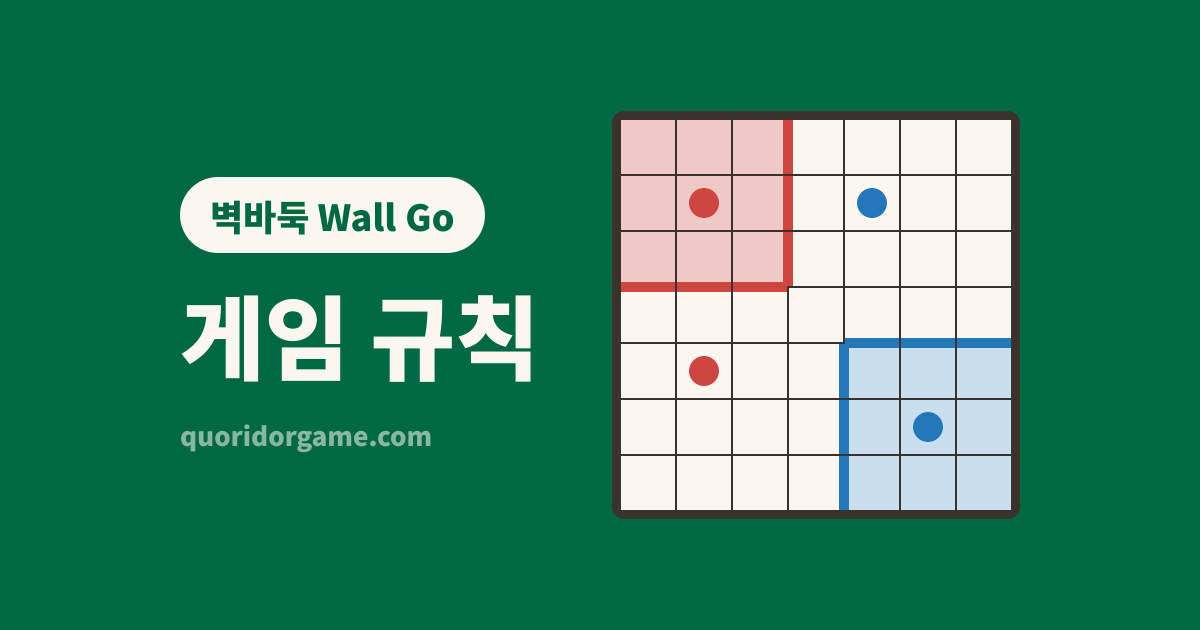
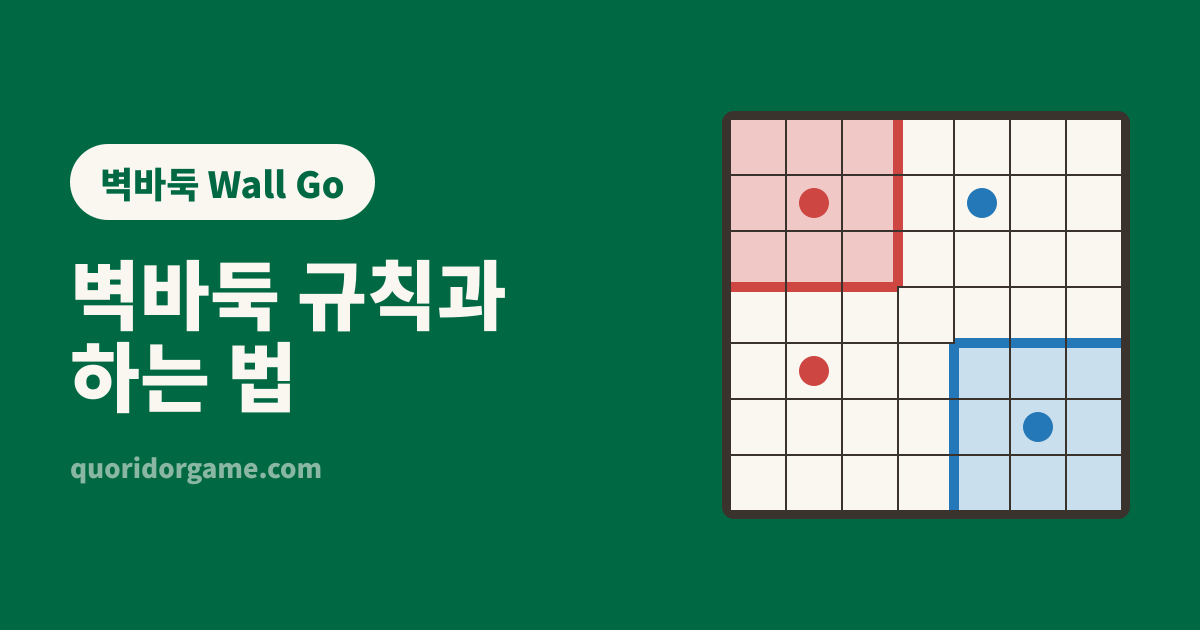
feat(i18n): 韓文標題改接「데블스 플랜」，規則頁接「벽바둑 규칙」
韓國從 9/26 開始有搜尋曝光（曝光第二多的國家），但 벽바둑 只排第 7 名，
而且 /ko/ 跟 /ko/rules/ 在搶同一個詞（docs/korean-search.md）。
- 首頁標題用節目通稱「넷플릭스 데블스 플랜」，第 3 季（데드 어게인）也接得住；說明補一句第 3 季
- 規則頁標題改成「벽바둑 규칙과 하는 법」，單人頁「벽바둑 혼자 하기」
- 韓文 titleTemplate 改成「%s | Wall Go」，標題才不會出現兩次 벽바둑
- glossary 記下韓文節目名的兩種用法與第 3 季正式名稱（已查證）
- 順手修正「벽바둑를」→「벽바둑을」

Claude-Session: https://claude.ai/code/session_01VbfEeJvisc9iRddWhVWALh

Changed region(s): [[0.6475, 0.1508, 0.9558, 0.8444], [0.0308, 0.2111, 0.4625, 0.7841], [0.4933, 0.1508, 0.6167, 0.8444]]

diff --git a/app/i18n/messages/ko.ts b/app/i18n/messages/ko.ts
@@ -3,11 +3,14 @@ import type { Messages } from './zh-TW';
 /** 用詞照 app/i18n/glossary.md：벽바둑（音譯，節目在韓國用的說法）、벽、영역、말。 */
 const ko: Messages = {
   meta: {
-    titleDefault: '벽바둑 Wall Go 무료 온라인 | 데블스 플랜: 데스룸',
-    titleTemplate: '%s | 벽바둑 Wall Go',
+    // 首頁標題用節目通稱「데블스 플랜」，不用第 2 季名「데스룸」：韓國人搜的是 데블스플랜、
+    // 데블스플랜3，第 3 季（데드 어게인）播出後也接得住。見 docs/korean-search.md
+    titleDefault: '벽바둑 Wall Go 무료 온라인 | 넷플릭스 데블스 플랜',
+    // 尾巴不再帶「벽바둑」：規則頁與單人頁的標題本身就以 벽바둑 開頭，帶了會重複兩次
+    titleTemplate: '%s | Wall Go',
     description:
-      '넷플릭스 한국 리얼리티 『데블스 플랜: 데스룸』에 나온 벽바둑을 브라우저에서 무료로 플레이하세요. 7줄 판에서 말을 움직이고 벽을 세워 영역을 둘러쌉니다. 가장 넓은 사람이 승리. 2~3인 대전, 컴퓨터와의 1인 플레이, 온라인 대전을 지원합니다. 설치도 가입도 필요 없습니다.',
-    keywords: ['벽바둑', 'Wall Go', '데블스 플랜', '데스룸', '바둑 변형', '영역 게임', '온라인 보드게임'],
+      '넷플릭스 한국 리얼리티 『데블스 플랜: 데스룸』에 나온 벽바둑을 브라우저에서 무료로 플레이하세요. 7줄 판에서 말을 움직이고 벽을 세워 영역을 둘러쌉니다. 가장 넓은 사람이 승리. 2~3인 대전, 컴퓨터와의 1인 플레이, 온라인 대전을 지원합니다. 시즌3 『데블스 플랜: 데드 어게인』과 함께 즐겨 보세요. 설치도 가입도 필요 없습니다.',
+    keywords: ['벽바둑', 'Wall Go', '데블스 플랜', '데블스플랜', '데스룸', '데드 어게인', '바둑 변형', '영역 게임', '온라인 보드게임'],
     ogTitle: '벽바둑 Wall Go 무료 온라인',
     ogDescription:
       '『데블스 플랜: 데스룸』의 벽바둑. 7줄 판에서 돌이 아니라 벽으로 둘러싸는 영역 게임. 설치도 가입도 필요 없습니다.',
@@ -30,7 +33,8 @@ const ko: Messages = {
     heading: '벽바둑 Wall Go 규칙',
     intro:
       '벽바둑은 넷플릭스 『데블스 플랜: 데스룸』에 나온 바둑의 변형입니다. 7줄 판에서 2~3명이 합니다.\n한 턴에 하는 일은 두 가지입니다. 말 하나를 움직이고, 벽 하나를 세웁니다. 아래에서 한 수씩 그림과 함께 설명합니다.',
-    metaTitle: '게임 규칙',
+    // 首頁接「벽바둑」「벽바둑 온라인」，規則頁接「벽바둑 규칙」「벽바둑 하는 법」，兩頁不搶同一個詞
+    metaTitle: '벽바둑 규칙과 하는 법',
     metaDescription:
       '벽바둑(Wall Go) 전체 규칙: 배치, 매 턴 0~2칸 이동 후 벽 하나 세우기, 둘러싸인 영역 계산, 3인전의 벽 부수기, 승패 판정. 넷플릭스 『데블스 플랜: 데스룸』에서.',
     ogTitle: '벽바둑 Wall Go 플레이 방법',
@@ -41,9 +45,9 @@ const ko: Messages = {
     ctaSolo: '혼자 하기',
   },
   solo: {
-    metaTitle: '혼자 하기',
+    metaTitle: '벽바둑 혼자 하기',
     metaDescription:
-      '혼자서도 벽바둑를 즐길 수 있습니다. 컴퓨터는 3단계. 각 칸에 누가 먼저 닿는지를 계산해서 두기 때문에 아무렇게나 두지 않습니다. 설치도 가입도 필요 없습니다.',
+      '혼자서도 벽바둑을 즐길 수 있습니다. 컴퓨터는 3단계. 각 칸에 누가 먼저 닿는지를 계산해서 두기 때문에 아무렇게나 두지 않습니다. 설치도 가입도 필요 없습니다.',
     ogTitle: '벽바둑 Wall Go 혼자 하기',
     ogDescription: '혼자서도 즐길 수 있습니다. 컴퓨터는 3단계. 설치도 가입도 필요 없습니다.',
     pickLevel: '난이도를 고르세요',

diff --git a/app/i18n/glossary.md b/app/i18n/glossary.md
@@ -23,6 +23,12 @@
 
 ## 幾個刻意的選擇
 
+- **韓文的節目名分兩種用法**（2026-10-18，docs/korean-search.md）：
+  - 首頁標題用通稱「데블스 플랜」（韓國人常不加空格搜「데블스플랜」，keywords 兩種都放）。
+  - 講到遊戲出自哪一季時，才用第 2 季的「데블스 플랜: 데스룸」（`showName` 仍是它）。
+  - 第 3 季的韓文正式名稱是「데블스 플랜: 데드 어게인」（The Devil's Plan: Dead Again），
+    2026-11-10 在 Netflix 上線；查證來源：Netflix 韓國官方新聞稿與韓國媒體報導。不要自己翻。
+
 - **領地在中文用「地盤」**：「領地」書面感重，「地盤」是這個遊戲實際在講的事。
   英文用 territory（圍棋術語的慣例譯法），日文用「陣地」而不是「領地」，
   因為日文圍棋本來就說陣地。
